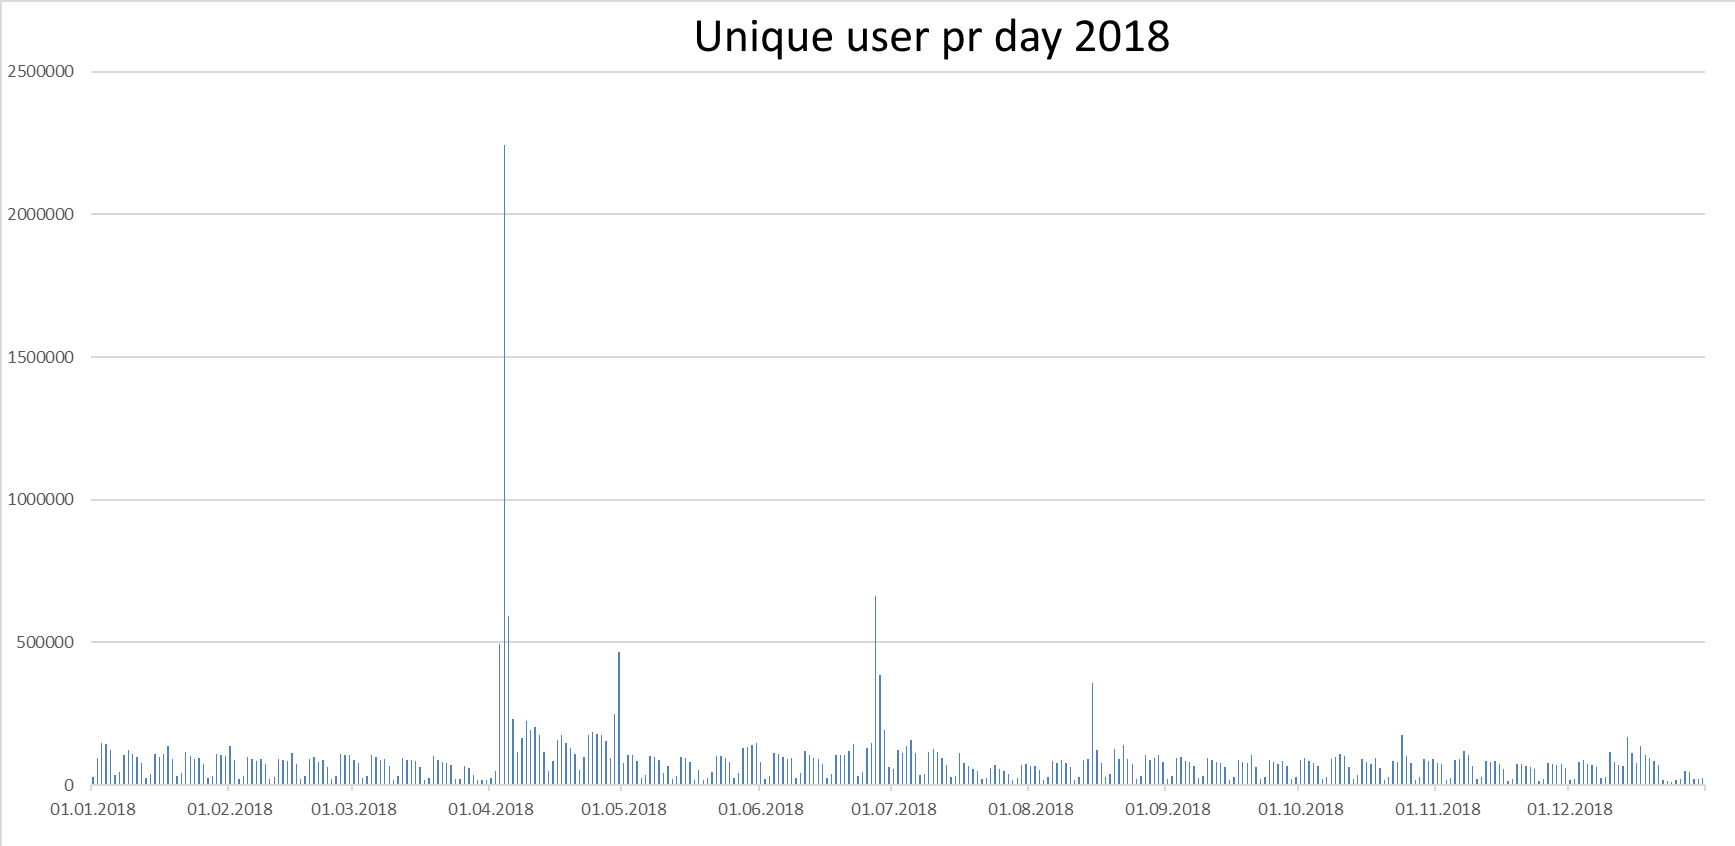
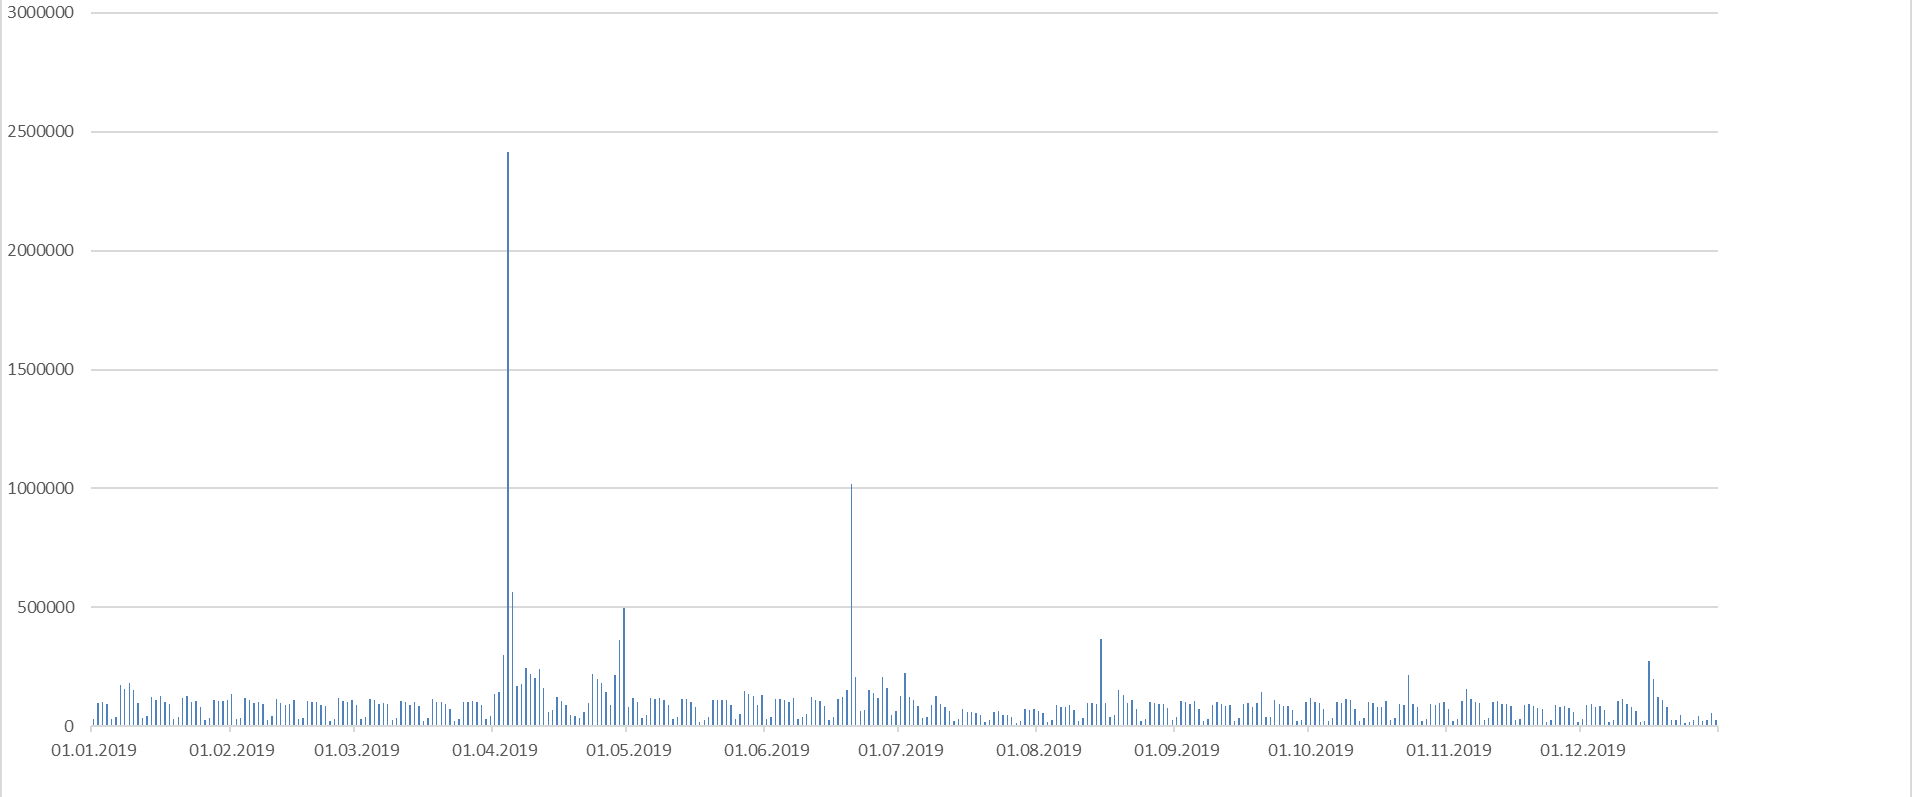
Updates to requirements

diff --git a/content/teknologi/altinnstudio/architecture/requirements/non_functional/_index.md b/content/teknologi/altinnstudio/architecture/requirements/non_functional/_index.md
@@ -17,7 +17,7 @@ cross-cutting concerns or "the -ilities" because most of the words end with "-il
 ### Performance
 
 #### Scalability
-![Scalability](scalable.png "Unique users 2018 per day Altinn platform")
+![Scalability](scalable.png "Unique users 2019 per day Altinn platform")
 
 The platform need to be highly scalable. The traffic in this types of solutions involves a large part of the countries citizens and the traffic is often concentrated around a few dates.
 
@@ -31,12 +31,21 @@ The solution need to have a performance to support a user friendly experience.
 #### Capacity
 The different solutions have different capacity requirements. 
 
-The requirement 
+The Altinn Platform would need to support the combined traffic from all applications running in Altinn Apps. 
+
+The usage of Altinn is growing each year. 
+
+![Scalability](capacity2.png "Number of messages through Altinn per year.")
+
 
 ### Reliability
 Reliablity requirements says something about how often users will experience system errors. 
 
+Altinn have users in every age group and for most age groups more than 90% of the citizens use Altinn every year.
+
 The requirement is that less than 1% of the users will experience errors. 
+
+![Scalability](capacity.png "Altinn Users per age group 2019")
 
 #### Availability
 The solutions need to be available 24/7.
